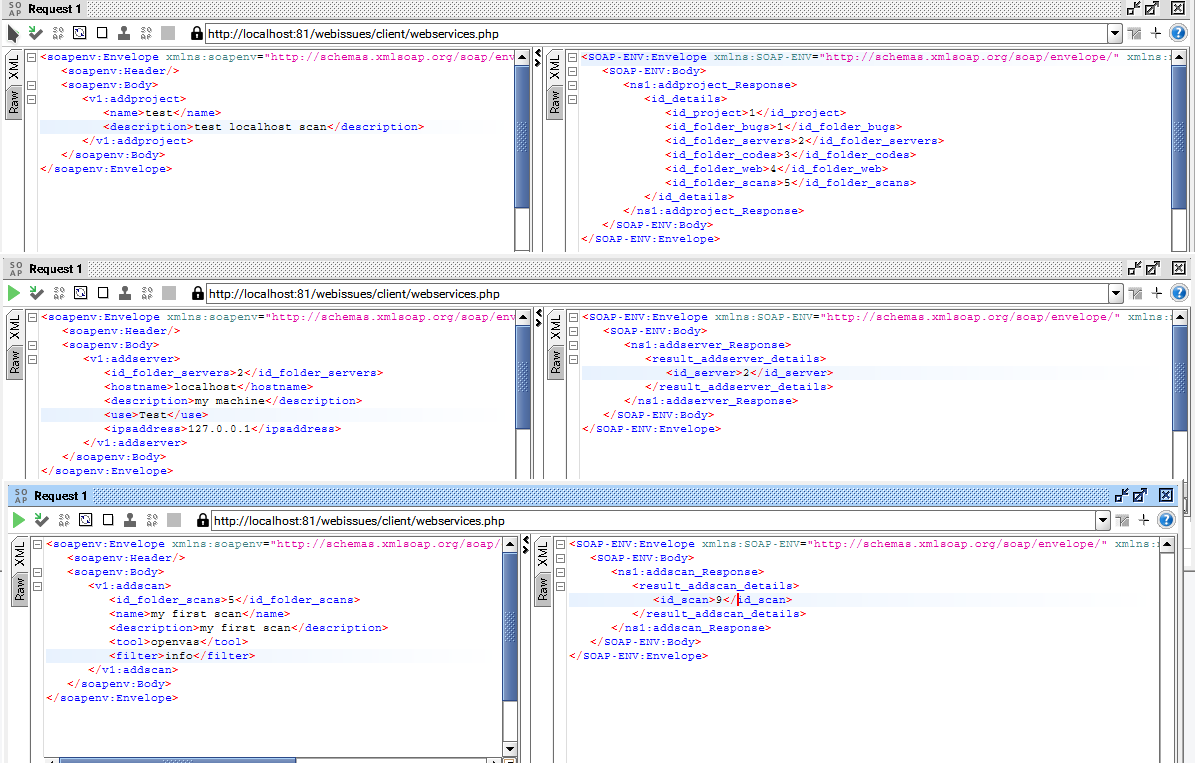
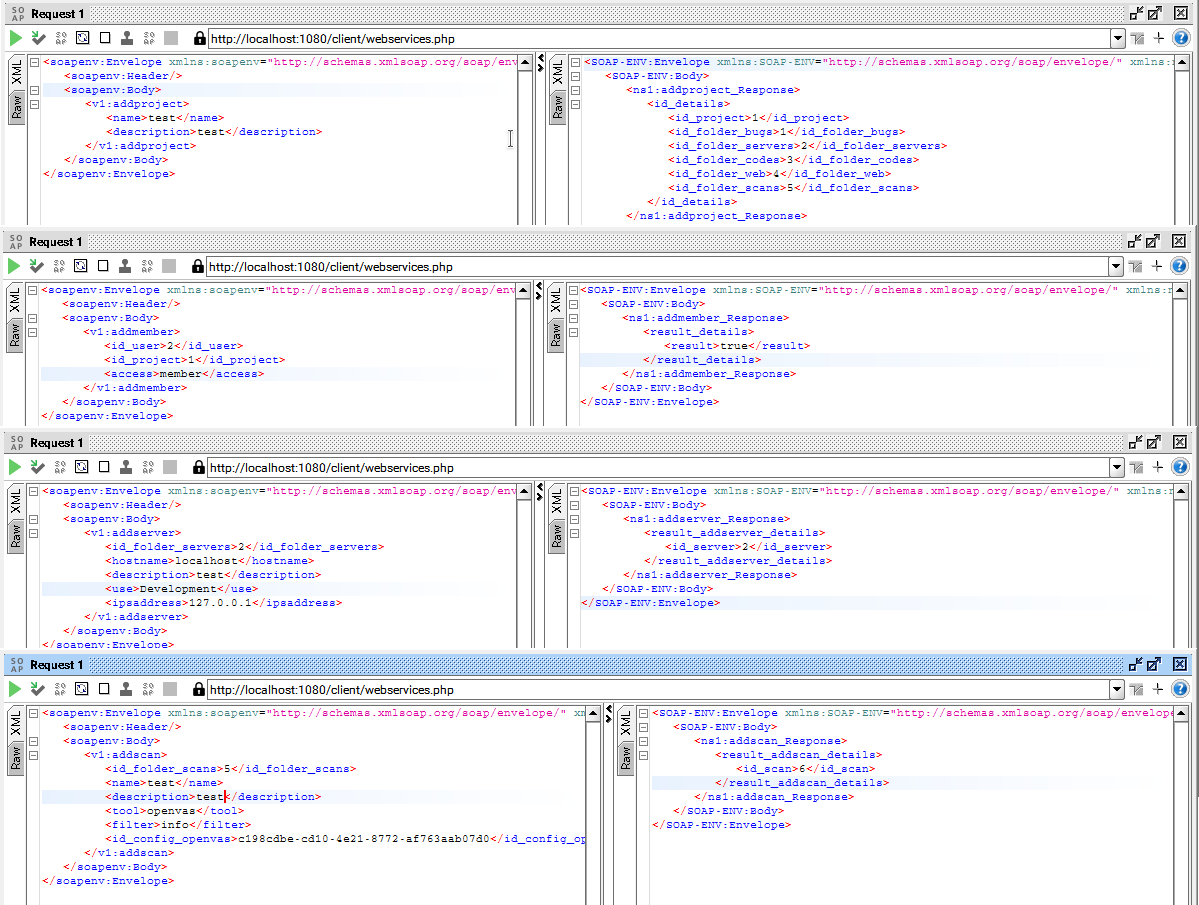
update readme

Changed region(s): [[0.0, 0.0, 1.0, 1.0], [0.4025, 0.9646, 0.4335, 1.0]]

diff --git a/README.md b/README.md
@@ -12,17 +12,17 @@ Security-bugtracker is just a plugin of the awesome [webissues](https://github.c
 - [Owasp ZAP](https://www.zaproxy.org/)
 
 ## Installation
-Change at the top of `docker-compose.yml` file the default credentials values with secure ones.
+Change, at the top of `docker-compose.yml` file, the default credential to secure values.
 
-Use docker-composer to build the images and run the containers:
+Use `docker-compose` to build the docker images and run the containers:
 ```
 docker-compose build
 docker-compose up
 ```
 
-Go to http://localhost:1080/setup/install.php and complete the installation of webissues (you just have to create an administrator account on the last screen of the setup) then go to http://localhost:1080/client/securityplugin.php and install the webissues' security plugin.
+Go to http://localhost:1080/setup/install.php and complete the installation of webissues (you just have to create an administrator account on the last screen of the setup) then go to http://localhost:1080/client/securityplugin.php and install the "webissues security plugin".
 
-Login to webissues as administrator and create a normal account with username and passwords equals to `OPENVAS_WEBISSUES_USERNAME` and `OPENVAS_WEBISSUES_PASSWORD` defined in the `docker-compose.yml` file.
+Login to webissues as administrator and create a normal account with username and password equals to `OPENVAS_WEBISSUES_USERNAME` and `OPENVAS_WEBISSUES_PASSWORD` defined in the `docker-compose.yml` file.
 
 ## Configuration
 The first time, after the installation, run:
@@ -30,11 +30,12 @@ The first time, after the installation, run:
 docker exec --user gvm -it security-bugtracker_securitytools_1 /opt/gvm/update_openvas.sh
 docker exec --user gvm -it security-bugtracker_securitytools_1 /opt/gvm/create_config_gvm.sh
 ```
-and remember the id of the scan config printed on the standard output when running the `/create_config_gvm.sh` script.
 
-Note: the first script update openvas will all the plugins, data, it can take more than one hour to end.
+Remember the scan config id printed on the console when running `/create_config_gvm.sh` script.
 
-To update openvas database, from time to time, use:
+Note: `update_openvas.sh` script updates openvas database, it can take more than one hour to end.
+
+To update openvas database, from time to time, use only:
 ```
 docker exec --user gvm -it security-bugtracker_securitytools_1 /opt/gvm/update_openvas.sh
 ```
@@ -43,7 +44,11 @@ docker exec --user gvm -it security-bugtracker_securitytools_1 /opt/gvm/update_o
 
 ### With SOAP-UI
 
-Use your favorite SOAP client to request security bugtracker webservices:
+Use your favorite SOAP client to request (with administrator credentials / basic authentication) security bugtracker webservices:
+* the first request is to create a project named "test"
+* the second request is to add the openvas user account (`OPENVAS_WEBISSUES_USERNAME`) as a member of this project a project named "test".
+* the third request is to add a server to scan.
+* and the last request is to run the scan (pay attention to the `id_config_openvas` element which correspond to the recommended scan config id created during the configuration.
 
 ![ScreenShot](./soapuidemo.png)
 
